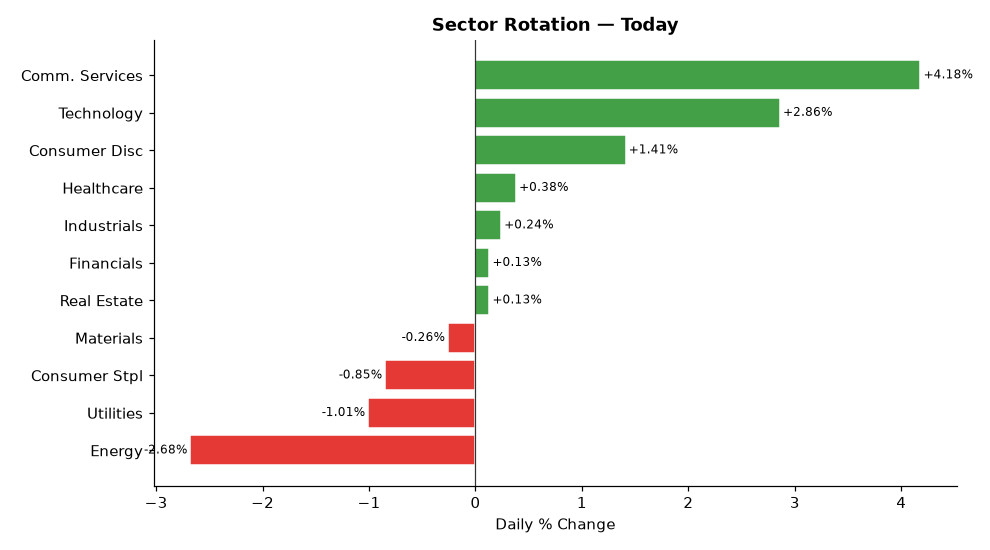
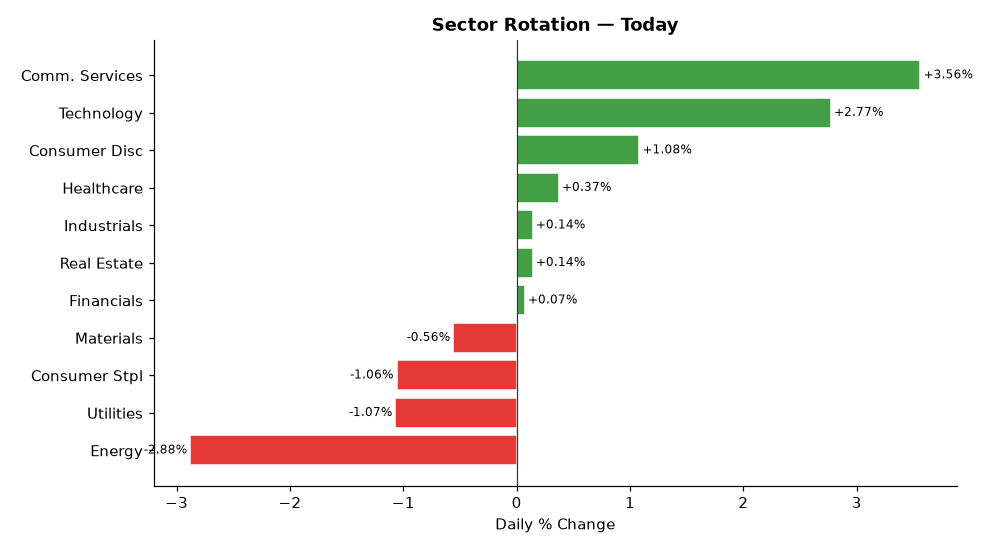
deploy: b7fadf5b06deb90e7ebb92f278722414bdd9750d

diff --git a/index.html b/index.html
@@ -4,7 +4,7 @@
   <meta charset="UTF-8">
   <meta name="viewport" content="width=device-width,initial-scale=1">
   <meta http-equiv="Cache-Control" content="no-cache,no-store,must-revalidate">
-  <title>Stock Breakout Screener — 2026-09-21 19:38</title>
+  <title>Stock Breakout Screener — 2026-09-21 20:56</title>
   <style>
     *{box-sizing:border-box;margin:0;padding:0}
     body{font-family:'Segoe UI',Arial,sans-serif;background:#f0f2f5;
@@ -34,20 +34,20 @@
 
 <div class="hdr">
   <h1>📈 Stock Breakout Screener</h1>
-  <p>Updated: 2026-09-21 19:38 UTC &nbsp;·&nbsp; Phase: Regular Market Hours &nbsp;·&nbsp;
+  <p>Updated: 2026-09-21 20:56 UTC &nbsp;·&nbsp; Phase: After-Hours (4:00–8:00 PM ET) &nbsp;·&nbsp;
      129 stocks screened &nbsp;·&nbsp; Top 5 by conviction score</p>
 </div>
 
 <div class="card">
   <strong style="font-size:14px">Market Sentiment: 🐻 Bearish</strong>
   <div class="bar-wrap" style="margin-top:10px">
-    <div style="width:1%;background:#43a047"></div>
-    <div style="width:7%;background:#fdd835"></div>
+    <div style="width:2%;background:#43a047"></div>
+    <div style="width:6%;background:#fdd835"></div>
     <div style="width:92%;background:#e53935"></div>
   </div>
   <div style="font-size:12px;color:#555">
-    🟢 Strong 1% &nbsp;
-    🟡 Moderate 7% &nbsp;
+    🟢 Strong 2% &nbsp;
+    🟡 Moderate 6% &nbsp;
     🔴 Weak 92%
   </div>
 </div>
@@ -65,11 +65,45 @@
             <span style="margin-left:auto;background:#1a237e;color:#fff;
                          padding:3px 12px;border-radius:12px;
                          font-size:13px;font-weight:600">
-              14/17
+              15/17
             </span>
           </div>
           <ul style="margin:0;padding-left:18px;font-size:13px;
-                     color:#333;line-height:1.8"><li style="margin:5px 0"><span style="background:#e8f5e9;color:#2e7d32;padding:2px 7px;border-radius:4px;font-size:11px;">✅</span> Volume: <b>2.2× average</b> — 🔥 Strong unusual activity</li><li style="margin:5px 0"><span style="background:#e8f5e9;color:#2e7d32;padding:2px 7px;border-radius:4px;font-size:11px;">✅</span> Candle: close <b>$750.11</b> vs open <b>$680.38</b> (+10.2%) — regular market close</li><li style="margin:5px 0"><span style="background:#e8f5e9;color:#2e7d32;padding:2px 7px;border-radius:4px;font-size:11px;">✅</span> 200-Day MA: price <b>$750.11</b> vs MA <b>$608.08</b> — <b>✅ Above</b> long-term trend</li><li style="margin:5px 0"><span style="background:#e8f5e9;color:#2e7d32;padding:2px 7px;border-radius:4px;font-size:11px;">✅</span> Inst. ownership: <b>79.0%</b> · MFI: <b>78.9</b> · Market cap: <b>$1911.3B</b></li></ul>
+                     color:#333;line-height:1.8"><li style="margin:5px 0"><span style="background:#e8f5e9;color:#2e7d32;padding:2px 7px;border-radius:4px;font-size:11px;">✅</span> Volume: <b>2.7× average</b> — 🔥 Strong unusual activity</li><li style="margin:5px 0"><span style="background:#e8f5e9;color:#2e7d32;padding:2px 7px;border-radius:4px;font-size:11px;">✅</span> Candle: close <b>$741.24</b> vs open <b>$680.29</b> (+9.0%) — regular market close</li><li style="margin:5px 0"><span style="background:#e8f5e9;color:#2e7d32;padding:2px 7px;border-radius:4px;font-size:11px;">✅</span> 200-Day MA: price <b>$741.24</b> vs MA <b>$608.01</b> — <b>✅ Above</b> long-term trend</li><li style="margin:5px 0"><span style="background:#e8f5e9;color:#2e7d32;padding:2px 7px;border-radius:4px;font-size:11px;">✅</span> Inst. ownership: <b>79.0%</b> · MFI: <b>79.5</b> · Market cap: <b>$1888.3B</b></li></ul>
+        </div>
+        <div style="background:#fff;border:1px solid #ddd;border-radius:10px;
+                    padding:16px 20px;margin-bottom:12px;
+                    box-shadow:0 2px 6px rgba(0,0,0,.07)">
+          <div style="display:flex;align-items:center;gap:10px;
+                      flex-wrap:wrap;margin-bottom:10px">
+            <span style="font-size:22px">🟢</span>
+            <span style="font-size:19px;font-weight:700">2. AMD</span>
+            <span style="font-size:12px;color:#666">Technology</span>
+            <span style="margin-left:auto;background:#1a237e;color:#fff;
+                         padding:3px 12px;border-radius:12px;
+                         font-size:13px;font-weight:600">
+              12/17
+            </span>
+          </div>
+          <ul style="margin:0;padding-left:18px;font-size:13px;
+                     color:#333;line-height:1.8"><li style="margin:5px 0"><span style="background:#fffde7;color:#f57f17;padding:2px 7px;border-radius:4px;font-size:11px;">⚠</span> Volume: <b>1.4× average</b> — Above-average activity</li><li style="margin:5px 0"><span style="background:#e8f5e9;color:#2e7d32;padding:2px 7px;border-radius:4px;font-size:11px;">✅</span> Candle: close <b>$615.52</b> vs open <b>$583.88</b> (+5.4%) — regular market close</li><li style="margin:5px 0"><span style="background:#e8f5e9;color:#2e7d32;padding:2px 7px;border-radius:4px;font-size:11px;">✅</span> 200-Day MA: price <b>$615.52</b> vs MA <b>$440.09</b> — <b>✅ Above</b> long-term trend</li><li style="margin:5px 0"><span style="background:#e8f5e9;color:#2e7d32;padding:2px 7px;border-radius:4px;font-size:11px;">✅</span> Inst. ownership: <b>75.4%</b> · MFI: <b>75.7</b> · Market cap: <b>$1004.8B</b></li></ul>
+        </div>
+        <div style="background:#fff;border:1px solid #ddd;border-radius:10px;
+                    padding:16px 20px;margin-bottom:12px;
+                    box-shadow:0 2px 6px rgba(0,0,0,.07)">
+          <div style="display:flex;align-items:center;gap:10px;
+                      flex-wrap:wrap;margin-bottom:10px">
+            <span style="font-size:22px">🟢</span>
+            <span style="font-size:19px;font-weight:700">3. INTC</span>
+            <span style="font-size:12px;color:#666">Technology</span>
+            <span style="margin-left:auto;background:#1a237e;color:#fff;
+                         padding:3px 12px;border-radius:12px;
+                         font-size:13px;font-weight:600">
+              12/17
+            </span>
+          </div>
+          <ul style="margin:0;padding-left:18px;font-size:13px;
+                     color:#333;line-height:1.8"><li style="margin:5px 0"><span style="background:#fffde7;color:#f57f17;padding:2px 7px;border-radius:4px;font-size:11px;">⚠</span> Volume: <b>1.6× average</b> — Above-average activity</li><li style="margin:5px 0"><span style="background:#e8f5e9;color:#2e7d32;padding:2px 7px;border-radius:4px;font-size:11px;">✅</span> Candle: close <b>$121.78</b> vs open <b>$116.59</b> (+4.5%) — regular market close</li><li style="margin:5px 0"><span style="background:#e8f5e9;color:#2e7d32;padding:2px 7px;border-radius:4px;font-size:11px;">✅</span> 200-Day MA: price <b>$121.78</b> vs MA <b>$97.28</b> — <b>✅ Above</b> long-term trend</li><li style="margin:5px 0"><span style="background:#e8f5e9;color:#2e7d32;padding:2px 7px;border-radius:4px;font-size:11px;">✅</span> Inst. ownership: <b>62.5%</b> · MFI: <b>83.9</b> · Market cap: <b>$643.7B</b></li></ul>
         </div>
         <div style="background:#fff;border:1px solid #ddd;border-radius:10px;
                     padding:16px 20px;margin-bottom:12px;
@@ -77,7 +111,7 @@
           <div style="display:flex;align-items:center;gap:10px;
                       flex-wrap:wrap;margin-bottom:10px">
             <span style="font-size:22px">🟡</span>
-            <span style="font-size:19px;font-weight:700">2. AAPL</span>
+            <span style="font-size:19px;font-weight:700">4. AAPL</span>
             <span style="font-size:12px;color:#666">Technology</span>
             <span style="margin-left:auto;background:#1a237e;color:#fff;
                          padding:3px 12px;border-radius:12px;
@@ -86,7 +120,7 @@
             </span>
           </div>
           <ul style="margin:0;padding-left:18px;font-size:13px;
-                     color:#333;line-height:1.8"><li style="margin:5px 0"><span style="background:#ffebee;color:#b71c1c;padding:2px 7px;border-radius:4px;font-size:11px;">❌</span> Volume: <b>0.4× average</b> — Above-average activity</li><li style="margin:5px 0"><span style="background:#ffebee;color:#b71c1c;padding:2px 7px;border-radius:4px;font-size:11px;">❌</span> Candle: close <b>$339.39</b> vs open <b>$335.20</b> (+1.2%) — regular market close</li><li style="margin:5px 0"><span style="background:#e8f5e9;color:#2e7d32;padding:2px 7px;border-radius:4px;font-size:11px;">✅</span> 200-Day MA: price <b>$339.39</b> vs MA <b>$298.90</b> — <b>✅ Above</b> long-term trend</li><li style="margin:5px 0"><span style="background:#e8f5e9;color:#2e7d32;padding:2px 7px;border-radius:4px;font-size:11px;">✅</span> Inst. ownership: <b>66.3%</b> · MFI: <b>73.6</b> · Market cap: <b>$4952.8B</b></li><li style="margin:5px 0"><span style="background:#e8f5e9;color:#2e7d32;padding:2px 7px;border-radius:4px;font-size:11px;">✅</span> Last similar breakout: <b>Jun 26, 2026</b> → <b>+11.8%</b> over 10 trading days</li></ul>
+                     color:#333;line-height:1.8"><li style="margin:5px 0"><span style="background:#ffebee;color:#b71c1c;padding:2px 7px;border-radius:4px;font-size:11px;">❌</span> Volume: <b>0.7× average</b> — Above-average activity</li><li style="margin:5px 0"><span style="background:#ffebee;color:#b71c1c;padding:2px 7px;border-radius:4px;font-size:11px;">❌</span> Candle: close <b>$338.98</b> vs open <b>$335.28</b> (+1.1%) — regular market close</li><li style="margin:5px 0"><span style="background:#e8f5e9;color:#2e7d32;padding:2px 7px;border-radius:4px;font-size:11px;">✅</span> 200-Day MA: price <b>$338.98</b> vs MA <b>$298.90</b> — <b>✅ Above</b> long-term trend</li><li style="margin:5px 0"><span style="background:#e8f5e9;color:#2e7d32;padding:2px 7px;border-radius:4px;font-size:11px;">✅</span> Inst. ownership: <b>66.3%</b> · MFI: <b>74.1</b> · Market cap: <b>$4947.1B</b></li><li style="margin:5px 0"><span style="background:#e8f5e9;color:#2e7d32;padding:2px 7px;border-radius:4px;font-size:11px;">✅</span> Last similar breakout: <b>Jun 26, 2026</b> → <b>+11.8%</b> over 10 trading days</li></ul>
         </div>
         <div style="background:#fff;border:1px solid #ddd;border-radius:10px;
                     padding:16px 20px;margin-bottom:12px;
@@ -94,7 +128,7 @@
           <div style="display:flex;align-items:center;gap:10px;
                       flex-wrap:wrap;margin-bottom:10px">
             <span style="font-size:22px">🟡</span>
-            <span style="font-size:19px;font-weight:700">3. GOOGL</span>
+            <span style="font-size:19px;font-weight:700">5. GOOGL</span>
             <span style="font-size:12px;color:#666">Comm. Services</span>
             <span style="margin-left:auto;background:#1a237e;color:#fff;
                          padding:3px 12px;border-radius:12px;
@@ -103,41 +137,7 @@
             </span>
           </div>
           <ul style="margin:0;padding-left:18px;font-size:13px;
-                     color:#333;line-height:1.8"><li style="margin:5px 0"><span style="background:#ffebee;color:#b71c1c;padding:2px 7px;border-radius:4px;font-size:11px;">❌</span> Volume: <b>0.7× average</b> — Above-average activity</li><li style="margin:5px 0"><span style="background:#ffebee;color:#b71c1c;padding:2px 7px;border-radius:4px;font-size:11px;">❌</span> Candle: close <b>$356.51</b> vs open <b>$350.67</b> (+1.7%) — regular market close</li><li style="margin:5px 0"><span style="background:#e8f5e9;color:#2e7d32;padding:2px 7px;border-radius:4px;font-size:11px;">✅</span> 200-Day MA: price <b>$356.51</b> vs MA <b>$349.93</b> — <b>✅ Above</b> long-term trend</li><li style="margin:5px 0"><span style="background:#e8f5e9;color:#2e7d32;padding:2px 7px;border-radius:4px;font-size:11px;">✅</span> Inst. ownership: <b>81.0%</b> · MFI: <b>60.4</b> · Market cap: <b>$4360.0B</b></li></ul>
-        </div>
-        <div style="background:#fff;border:1px solid #ddd;border-radius:10px;
-                    padding:16px 20px;margin-bottom:12px;
-                    box-shadow:0 2px 6px rgba(0,0,0,.07)">
-          <div style="display:flex;align-items:center;gap:10px;
-                      flex-wrap:wrap;margin-bottom:10px">
-            <span style="font-size:22px">🟡</span>
-            <span style="font-size:19px;font-weight:700">4. AMD</span>
-            <span style="font-size:12px;color:#666">Technology</span>
-            <span style="margin-left:auto;background:#1a237e;color:#fff;
-                         padding:3px 12px;border-radius:12px;
-                         font-size:13px;font-weight:600">
-              10/17
-            </span>
-          </div>
-          <ul style="margin:0;padding-left:18px;font-size:13px;
-                     color:#333;line-height:1.8"><li style="margin:5px 0"><span style="background:#ffebee;color:#b71c1c;padding:2px 7px;border-radius:4px;font-size:11px;">❌</span> Volume: <b>1.2× average</b> — Above-average activity</li><li style="margin:5px 0"><span style="background:#e8f5e9;color:#2e7d32;padding:2px 7px;border-radius:4px;font-size:11px;">✅</span> Candle: close <b>$615.64</b> vs open <b>$583.94</b> (+5.4%) — regular market close</li><li style="margin:5px 0"><span style="background:#e8f5e9;color:#2e7d32;padding:2px 7px;border-radius:4px;font-size:11px;">✅</span> 200-Day MA: price <b>$615.64</b> vs MA <b>$440.09</b> — <b>✅ Above</b> long-term trend</li><li style="margin:5px 0"><span style="background:#e8f5e9;color:#2e7d32;padding:2px 7px;border-radius:4px;font-size:11px;">✅</span> Inst. ownership: <b>75.4%</b> · MFI: <b>75.0</b> · Market cap: <b>$1004.8B</b></li></ul>
-        </div>
-        <div style="background:#fff;border:1px solid #ddd;border-radius:10px;
-                    padding:16px 20px;margin-bottom:12px;
-                    box-shadow:0 2px 6px rgba(0,0,0,.07)">
-          <div style="display:flex;align-items:center;gap:10px;
-                      flex-wrap:wrap;margin-bottom:10px">
-            <span style="font-size:22px">🟡</span>
-            <span style="font-size:19px;font-weight:700">5. INTC</span>
-            <span style="font-size:12px;color:#666">Technology</span>
-            <span style="margin-left:auto;background:#1a237e;color:#fff;
-                         padding:3px 12px;border-radius:12px;
-                         font-size:13px;font-weight:600">
-              10/17
-            </span>
-          </div>
-          <ul style="margin:0;padding-left:18px;font-size:13px;
-                     color:#333;line-height:1.8"><li style="margin:5px 0"><span style="background:#ffebee;color:#b71c1c;padding:2px 7px;border-radius:4px;font-size:11px;">❌</span> Volume: <b>1.3× average</b> — Above-average activity</li><li style="margin:5px 0"><span style="background:#e8f5e9;color:#2e7d32;padding:2px 7px;border-radius:4px;font-size:11px;">✅</span> Candle: close <b>$122.35</b> vs open <b>$116.59</b> (+4.9%) — regular market close</li><li style="margin:5px 0"><span style="background:#e8f5e9;color:#2e7d32;padding:2px 7px;border-radius:4px;font-size:11px;">✅</span> 200-Day MA: price <b>$122.35</b> vs MA <b>$97.28</b> — <b>✅ Above</b> long-term trend</li><li style="margin:5px 0"><span style="background:#e8f5e9;color:#2e7d32;padding:2px 7px;border-radius:4px;font-size:11px;">✅</span> Inst. ownership: <b>62.5%</b> · MFI: <b>83.5</b> · Market cap: <b>$646.8B</b></li></ul>
+                     color:#333;line-height:1.8"><li style="margin:5px 0"><span style="background:#ffebee;color:#b71c1c;padding:2px 7px;border-radius:4px;font-size:11px;">❌</span> Volume: <b>0.9× average</b> — Above-average activity</li><li style="margin:5px 0"><span style="background:#ffebee;color:#b71c1c;padding:2px 7px;border-radius:4px;font-size:11px;">❌</span> Candle: close <b>$354.97</b> vs open <b>$350.67</b> (+1.2%) — regular market close</li><li style="margin:5px 0"><span style="background:#e8f5e9;color:#2e7d32;padding:2px 7px;border-radius:4px;font-size:11px;">✅</span> 200-Day MA: price <b>$354.97</b> vs MA <b>$349.92</b> — <b>✅ Above</b> long-term trend</li><li style="margin:5px 0"><span style="background:#e8f5e9;color:#2e7d32;padding:2px 7px;border-radius:4px;font-size:11px;">✅</span> Inst. ownership: <b>81.0%</b> · MFI: <b>61.3</b> · Market cap: <b>$4341.3B</b></li></ul>
         </div>
 
 
@@ -169,35 +169,71 @@
         <tr>
           <td style="font-weight:700;text-align:left;padding-left:10px">
             🟢 META</td>
-          <td style="background:#c8e6c9">2.2×</td>
-          <td style="background:#c8e6c9">+10.2%</td>
+          <td style="background:#c8e6c9">2.7×</td>
+          <td style="background:#c8e6c9">+9.0%</td>
           <td style="background:#c8e6c9">
             ▲ Above</td>
           <td style="background:#c8e6c9">
             79.0%</td>
           <td style="background:#c8e6c9">
-            78.9</td>
+            79.5</td>
           <td style="background:#c8e6c9">Comm. Services</td>
-          <td style="background:#ffcdd2">
-            5.9%</td>
+          <td style="background:#c8e6c9">
+            128.9%</td>
           <td style="background:#ffcdd2">
             N/A</td>
-          <td style="font-weight:800;font-size:15px">14/17</td>
+          <td style="font-weight:800;font-size:15px">15/17</td>
+        </tr>
+        <tr>
+          <td style="font-weight:700;text-align:left;padding-left:10px">
+            🟢 AMD</td>
+          <td style="background:#fff9c4">1.4×</td>
+          <td style="background:#c8e6c9">+5.4%</td>
+          <td style="background:#c8e6c9">
+            ▲ Above</td>
+          <td style="background:#c8e6c9">
+            75.4%</td>
+          <td style="background:#c8e6c9">
+            75.7</td>
+          <td style="background:#fff9c4">Technology</td>
+          <td style="background:#c8e6c9">
+            157.4%</td>
+          <td style="background:#ffcdd2">
+            N/A</td>
+          <td style="font-weight:800;font-size:15px">12/17</td>
+        </tr>
+        <tr>
+          <td style="font-weight:700;text-align:left;padding-left:10px">
+            🟢 INTC</td>
+          <td style="background:#fff9c4">1.6×</td>
+          <td style="background:#c8e6c9">+4.5%</td>
+          <td style="background:#c8e6c9">
+            ▲ Above</td>
+          <td style="background:#c8e6c9">
+            62.5%</td>
+          <td style="background:#c8e6c9">
+            83.9</td>
+          <td style="background:#fff9c4">Technology</td>
+          <td style="background:#c8e6c9">
+            229.5%</td>
+          <td style="background:#ffcdd2">
+            N/A</td>
+          <td style="font-weight:800;font-size:15px">12/17</td>
         </tr>
         <tr>
           <td style="font-weight:700;text-align:left;padding-left:10px">
             🟡 AAPL</td>
-          <td style="background:#ffcdd2">0.4×</td>
-          <td style="background:#ffcdd2">+1.2%</td>
+          <td style="background:#ffcdd2">0.7×</td>
+          <td style="background:#ffcdd2">+1.1%</td>
           <td style="background:#c8e6c9">
             ▲ Above</td>
           <td style="background:#c8e6c9">
             66.3%</td>
           <td style="background:#c8e6c9">
-            73.6</td>
+            74.1</td>
           <td style="background:#fff9c4">Technology</td>
           <td style="background:#c8e6c9">
-            91.1%</td>
+            107.0%</td>
           <td style="background:#c8e6c9">
             +11.8%</td>
           <td style="font-weight:800;font-size:15px">11/17</td>
@@ -205,56 +241,20 @@
         <tr>
           <td style="font-weight:700;text-align:left;padding-left:10px">
             🟡 GOOGL</td>
-          <td style="background:#ffcdd2">0.7×</td>
-          <td style="background:#ffcdd2">+1.7%</td>
+          <td style="background:#ffcdd2">0.9×</td>
+          <td style="background:#ffcdd2">+1.2%</td>
           <td style="background:#c8e6c9">
             ▲ Above</td>
           <td style="background:#c8e6c9">
             81.0%</td>
           <td style="background:#c8e6c9">
-            60.4</td>
+            61.3</td>
           <td style="background:#c8e6c9">Comm. Services</td>
           <td style="background:#c8e6c9">
-            43.4%</td>
+            99.8%</td>
           <td style="background:#ffcdd2">
             N/A</td>
           <td style="font-weight:800;font-size:15px">11/17</td>
-        </tr>
-        <tr>
-          <td style="font-weight:700;text-align:left;padding-left:10px">
-            🟡 AMD</td>
-          <td style="background:#ffcdd2">1.2×</td>
-          <td style="background:#c8e6c9">+5.4%</td>
-          <td style="background:#c8e6c9">
-            ▲ Above</td>
-          <td style="background:#c8e6c9">
-            75.4%</td>
-          <td style="background:#c8e6c9">
-            75.0</td>
-          <td style="background:#fff9c4">Technology</td>
-          <td style="background:#ffcdd2">
-            8.0%</td>
-          <td style="background:#ffcdd2">
-            N/A</td>
-          <td style="font-weight:800;font-size:15px">10/17</td>
-        </tr>
-        <tr>
-          <td style="font-weight:700;text-align:left;padding-left:10px">
-            🟡 INTC</td>
-          <td style="background:#ffcdd2">1.3×</td>
-          <td style="background:#c8e6c9">+4.9%</td>
-          <td style="background:#c8e6c9">
-            ▲ Above</td>
-          <td style="background:#c8e6c9">
-            62.5%</td>
-          <td style="background:#c8e6c9">
-            83.5</td>
-          <td style="background:#fff9c4">Technology</td>
-          <td style="background:#ffcdd2">
-            8.7%</td>
-          <td style="background:#ffcdd2">
-            N/A</td>
-          <td style="font-weight:800;font-size:15px">10/17</td>
         </tr>
 </table>
 </div>
@@ -278,57 +278,57 @@
         <tr>
           <td style="text-align:left;padding-left:10px;font-weight:600">
             #1 Comm. Services</td>
-          <td style="background:#e8f5e9;color:#2e7d32;font-weight:700">+4.18%</td>
+          <td style="background:#e8f5e9;color:#2e7d32;font-weight:700">+3.56%</td>
         </tr>
         <tr>
           <td style="text-align:left;padding-left:10px;font-weight:600">
             #2 Technology</td>
-          <td style="background:#e8f5e9;color:#2e7d32;font-weight:700">+2.86%</td>
+          <td style="background:#e8f5e9;color:#2e7d32;font-weight:700">+2.77%</td>
         </tr>
         <tr>
           <td style="text-align:left;padding-left:10px;font-weight:600">
             #3 Consumer Disc</td>
-          <td style="background:#e8f5e9;color:#2e7d32;font-weight:700">+1.41%</td>
+          <td style="background:#e8f5e9;color:#2e7d32;font-weight:700">+1.08%</td>
         </tr>
         <tr>
           <td style="text-align:left;padding-left:10px;font-weight:600">
             #4 Healthcare</td>
-          <td style="background:#e8f5e9;color:#2e7d32;font-weight:700">+0.38%</td>
+          <td style="background:#e8f5e9;color:#2e7d32;font-weight:700">+0.37%</td>
         </tr>
         <tr>
           <td style="text-align:left;padding-left:10px;font-weight:600">
             #5 Industrials</td>
-          <td style="background:#e8f5e9;color:#2e7d32;font-weight:700">+0.24%</td>
+          <td style="background:#e8f5e9;color:#2e7d32;font-weight:700">+0.14%</td>
         </tr>
         <tr>
           <td style="text-align:left;padding-left:10px;font-weight:600">
-            #6 Financials</td>
-          <td style="background:#e8f5e9;color:#2e7d32;font-weight:700">+0.13%</td>
+            #6 Real Estate</td>
+          <td style="background:#e8f5e9;color:#2e7d32;font-weight:700">+0.14%</td>
         </tr>
         <tr>
           <td style="text-align:left;padding-left:10px;font-weight:600">
-            #7 Real Estate</td>
-          <td style="background:#e8f5e9;color:#2e7d32;font-weight:700">+0.13%</td>
+            #7 Financials</td>
+          <td style="background:#e8f5e9;color:#2e7d32;font-weight:700">+0.07%</td>
         </tr>
         <tr>
           <td style="text-align:left;padding-left:10px;font-weight:600">
             #8 Materials</td>
-          <td style="background:#ffebee;color:#c62828;font-weight:700">-0.26%</td>
+          <td style="background:#ffebee;color:#c62828;font-weight:700">-0.56%</td>
         </tr>
         <tr>
           <td style="text-align:left;padding-left:10px;font-weight:600">
             #9 Consumer Stpl</td>
-          <td style="background:#ffebee;color:#c62828;font-weight:700">-0.85%</td>
+          <td style="background:#ffebee;color:#c62828;font-weight:700">-1.06%</td>
         </tr>
         <tr>
           <td style="text-align:left;padding-left:10px;font-weight:600">
             #10 Utilities</td>
-          <td style="background:#ffebee;color:#c62828;font-weight:700">-1.01%</td>
+          <td style="background:#ffebee;color:#c62828;font-weight:700">-1.07%</td>
         </tr>
         <tr>
           <td style="text-align:left;padding-left:10px;font-weight:600">
             #11 Energy</td>
-          <td style="background:#ffebee;color:#c62828;font-weight:700">-2.68%</td>
+          <td style="background:#ffebee;color:#c62828;font-weight:700">-2.88%</td>
         </tr>
     </table>
   </div>
@@ -367,7 +367,7 @@
         <li><b>Scoring weights:</b>
             Inst.Own(3) · Sector(3) · Volume(2) · Breakout(2) ·
             MA200(2) · MFI(2) · History(2) · IV(1) = 17pts max</li>
-        <li><b>Run time:</b> 2026-09-21 19:38 UTC — Market phase: Regular Market Hours</li>
+        <li><b>Run time:</b> 2026-09-21 20:56 UTC — Market phase: After-Hours (4:00–8:00 PM ET)</li>
       </ul>
     </div>
 
